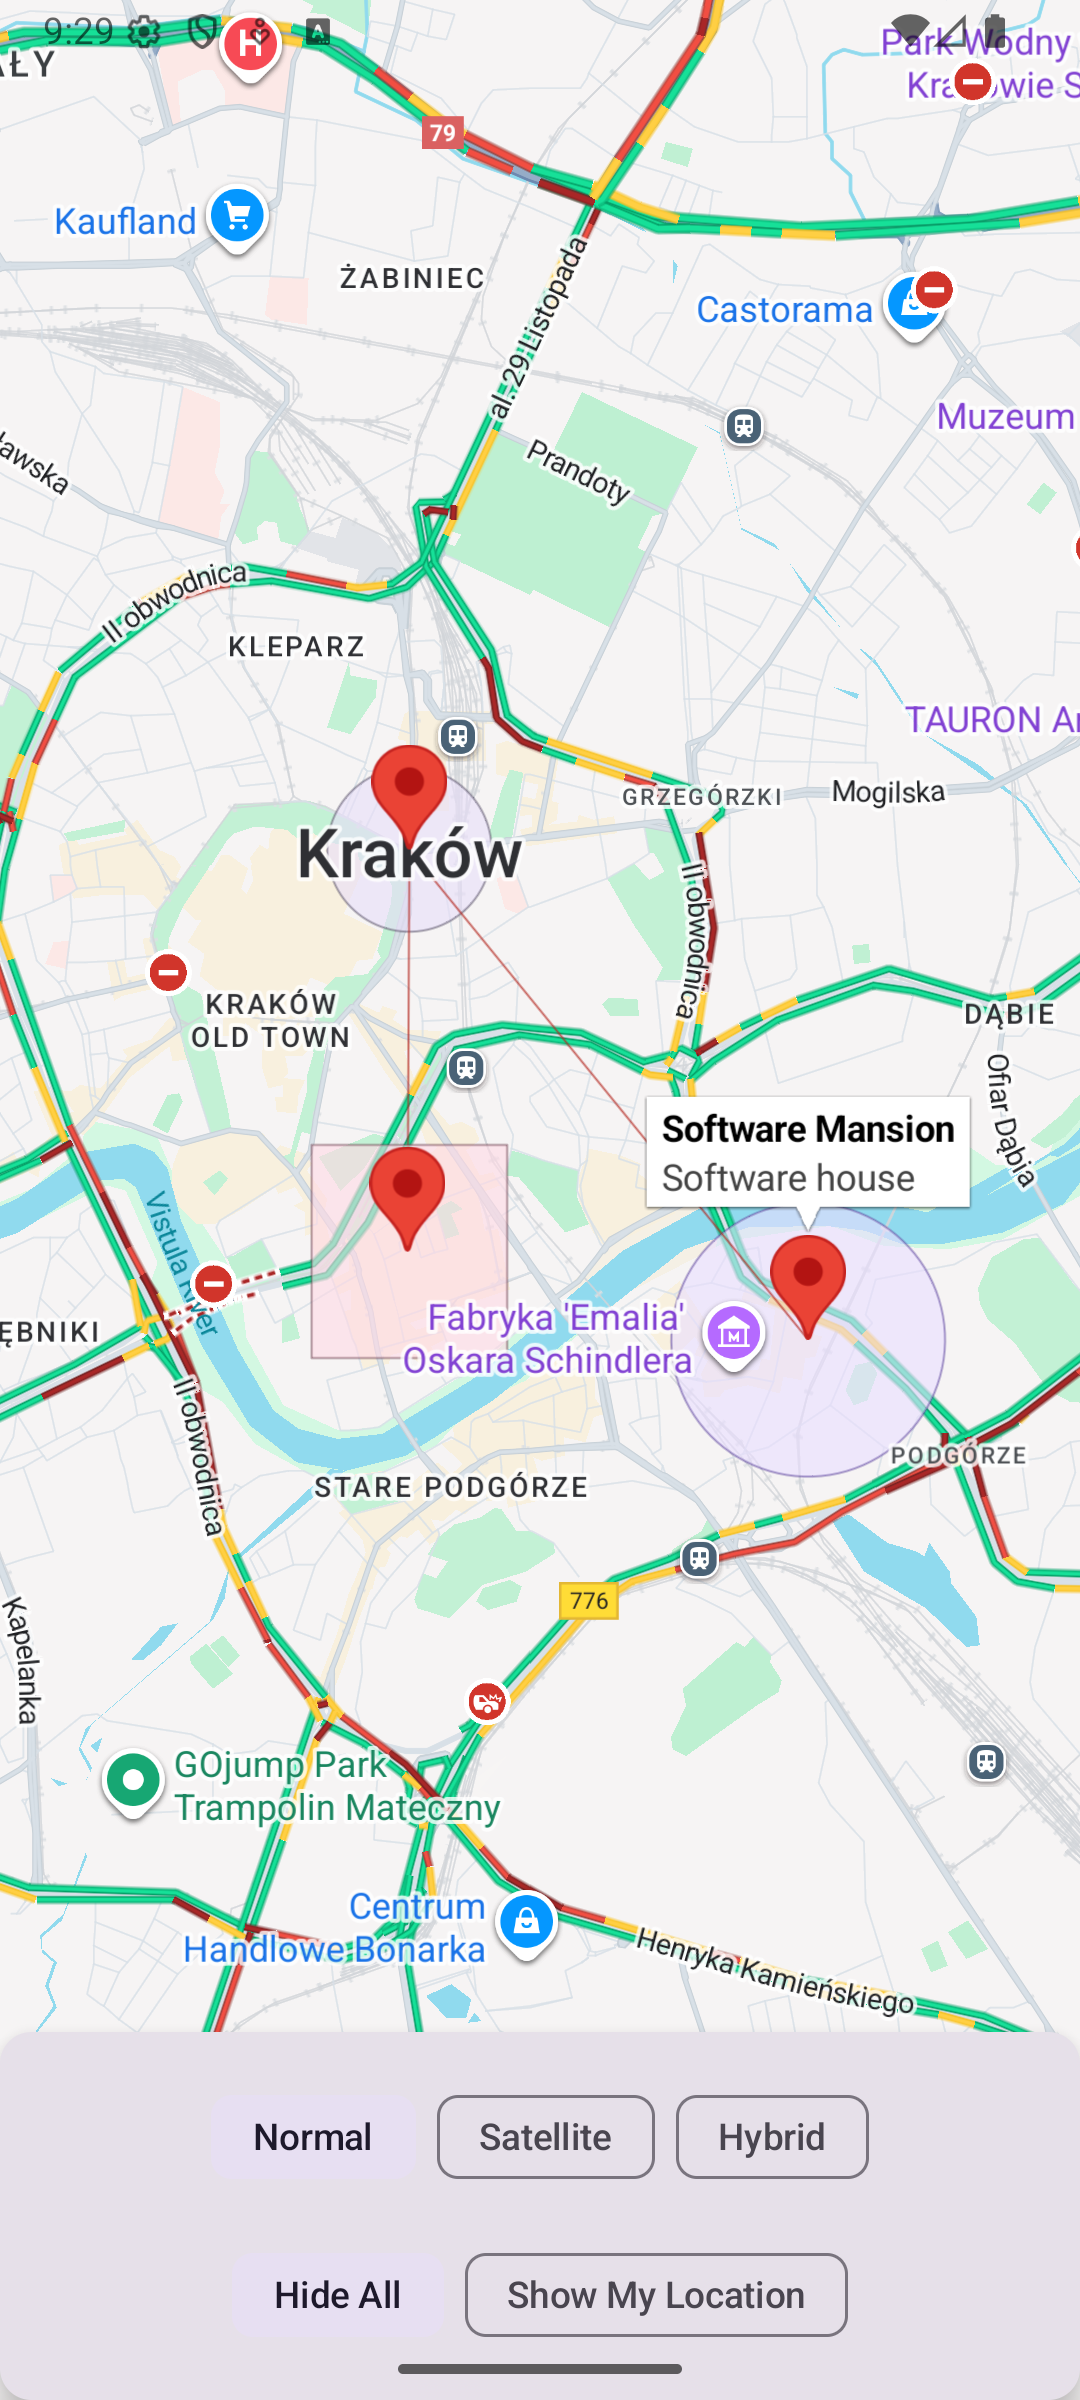
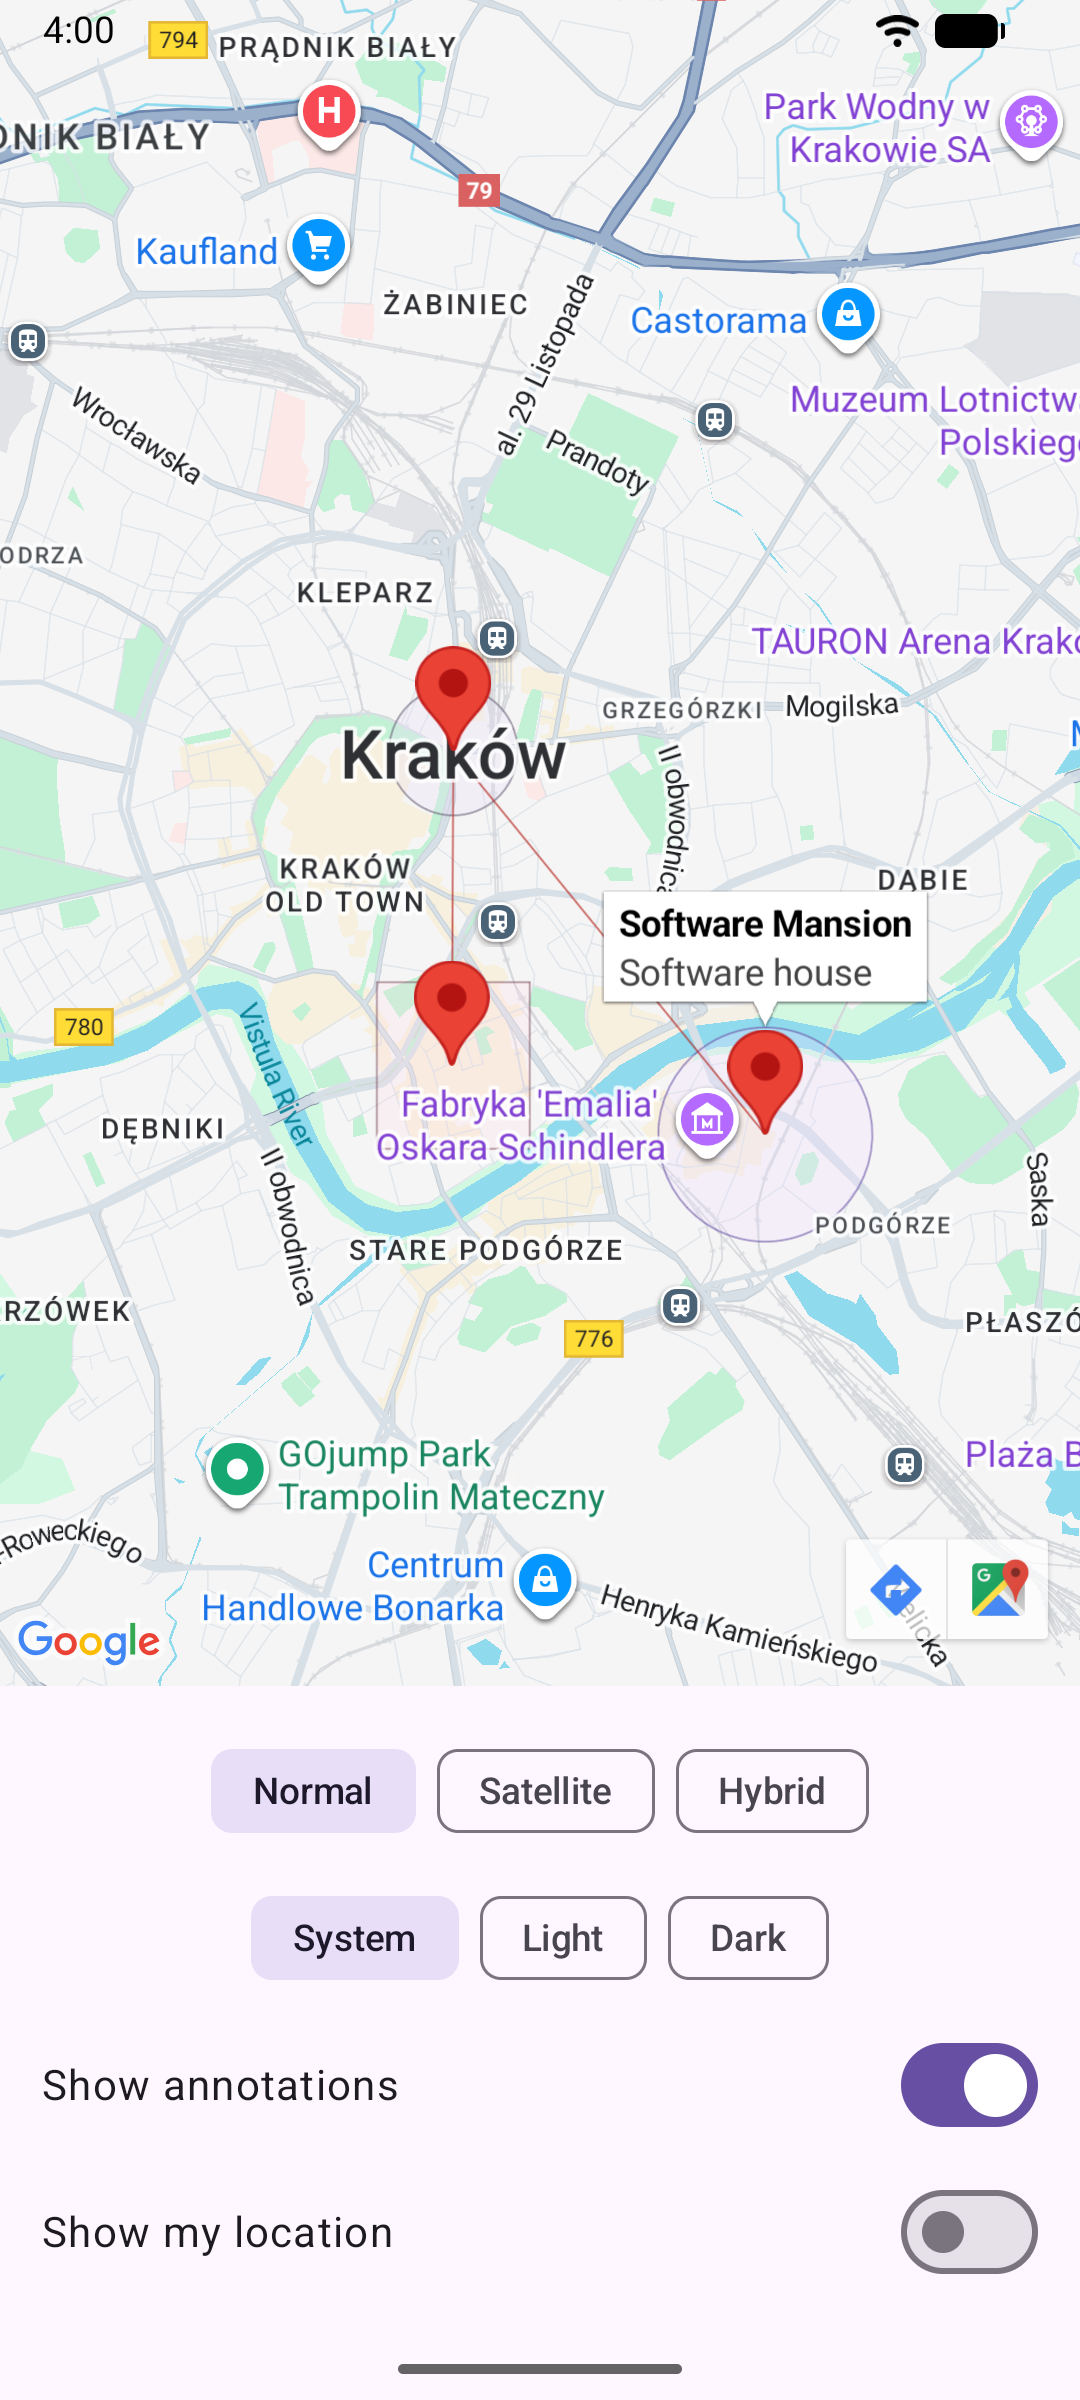
Refine sample app

diff --git a/sample/src/commonMain/kotlin/com/swmansion/kmpmaps/sample/MapsScreen.kt b/sample/src/commonMain/kotlin/com/swmansion/kmpmaps/sample/MapsScreen.kt
@@ -1,15 +1,22 @@
 package com.swmansion.kmpmaps.sample
 
+import androidx.compose.foundation.clickable
 import androidx.compose.foundation.layout.Arrangement
-import androidx.compose.foundation.layout.Box
 import androidx.compose.foundation.layout.Column
 import androidx.compose.foundation.layout.Row
-import androidx.compose.foundation.layout.fillMaxSize
+import androidx.compose.foundation.layout.WindowInsets
+import androidx.compose.foundation.layout.exclude
+import androidx.compose.foundation.layout.fillMaxHeight
 import androidx.compose.foundation.layout.fillMaxWidth
+import androidx.compose.foundation.layout.height
 import androidx.compose.foundation.layout.padding
-import androidx.compose.material3.Card
-import androidx.compose.material3.CardDefaults
+import androidx.compose.foundation.layout.safeDrawing
+import androidx.compose.foundation.layout.statusBars
+import androidx.compose.foundation.layout.windowInsetsPadding
 import androidx.compose.material3.FilterChip
+import androidx.compose.material3.ListItem
+import androidx.compose.material3.Surface
+import androidx.compose.material3.Switch
 import androidx.compose.material3.Text
 import androidx.compose.runtime.Composable
 import androidx.compose.runtime.getValue
@@ -42,9 +49,9 @@ fun MapsScreen() {
     }
     var showAllComponents by remember { mutableStateOf(true) }
 
-    Box(modifier = Modifier.fillMaxSize()) {
+    Column(Modifier.fillMaxHeight(), Arrangement.Bottom) {
         Map(
-            modifier = Modifier.fillMaxSize(),
+            modifier = Modifier.weight(1f),
             cameraPosition = currentCameraPosition,
             properties =
                 MapProperties(
@@ -62,6 +69,7 @@ fun MapsScreen() {
                     compassEnabled = true,
                     myLocationButtonEnabled = showUserLocation,
                     scaleBarEnabled = true,
+                    androidZoomControlsEnabled = false,
                 ),
             markers = if (showAllComponents) exampleMarkers else emptyList(),
             circles = if (showAllComponents) getExampleCircles() else emptyList(),
@@ -80,20 +88,15 @@ fun MapsScreen() {
             onMarkerClick = { marker -> println("Marker clicked: ${marker.title}") },
             onMapClick = { coordinates -> println("Map clicked at: $coordinates") },
         )
-
-        Card(
-            modifier = Modifier.fillMaxWidth().align(Alignment.BottomCenter),
-            elevation = CardDefaults.cardElevation(defaultElevation = 8.dp),
-        ) {
+        Surface {
             Column(
-                modifier = Modifier.fillMaxWidth().padding(16.dp),
-                horizontalAlignment = Alignment.CenterHorizontally,
-                verticalArrangement = Arrangement.spacedBy(12.dp),
+                Modifier.fillMaxWidth()
+                    .windowInsetsPadding(WindowInsets.safeDrawing.exclude(WindowInsets.statusBars))
+                    .padding(vertical = 16.dp),
+                Arrangement.spacedBy(8.dp),
+                Alignment.CenterHorizontally,
             ) {
-                Row(
-                    horizontalArrangement = Arrangement.spacedBy(8.dp),
-                    verticalAlignment = Alignment.CenterVertically,
-                ) {
+                Row(horizontalArrangement = Arrangement.spacedBy(8.dp)) {
                     FilterChip(
                         onClick = { selectedMapType = MapType.NORMAL },
                         label = { Text("Normal") },
@@ -110,10 +113,7 @@ fun MapsScreen() {
                         selected = selectedMapType == MapType.HYBRID,
                     )
                 }
-                Row(
-                    horizontalArrangement = Arrangement.spacedBy(8.dp),
-                    verticalAlignment = Alignment.CenterVertically,
-                ) {
+                Row(horizontalArrangement = Arrangement.spacedBy(8.dp)) {
                     FilterChip(
                         onClick = { selectedMapTheme = MapTheme.SYSTEM },
                         label = { Text("System") },
@@ -130,21 +130,28 @@ fun MapsScreen() {
                         selected = selectedMapTheme == MapTheme.DARK,
                     )
                 }
-                Row(
-                    horizontalArrangement = Arrangement.spacedBy(8.dp),
-                    verticalAlignment = Alignment.CenterVertically,
-                ) {
-                    FilterChip(
-                        onClick = { showAllComponents = !showAllComponents },
-                        label = { Text(if (showAllComponents) "Hide All" else "Show All") },
-                        selected = showAllComponents,
-                    )
-                    FilterChip(
-                        onClick = { showUserLocation = !showUserLocation },
-                        label = { Text("Show My Location") },
-                        selected = showUserLocation,
-                    )
-                }
+                ListItem(
+                    headlineContent = { Text("Show annotations") },
+                    modifier =
+                        Modifier.height(48.dp).clickable { showAllComponents = !showAllComponents },
+                    trailingContent = {
+                        Switch(
+                            checked = showAllComponents,
+                            onCheckedChange = { showAllComponents = it },
+                        )
+                    },
+                )
+                ListItem(
+                    headlineContent = { Text("Show my location") },
+                    modifier =
+                        Modifier.height(48.dp).clickable { showUserLocation = !showUserLocation },
+                    trailingContent = {
+                        Switch(
+                            checked = showUserLocation,
+                            onCheckedChange = { showUserLocation = it },
+                        )
+                    },
+                )
             }
         }
     }

diff --git a/sample/src/commonMain/kotlin/com/swmansion/kmpmaps/sample/App.kt b/sample/src/commonMain/kotlin/com/swmansion/kmpmaps/sample/App.kt
@@ -1,25 +1,16 @@
 package com.swmansion.kmpmaps.sample
 
+import androidx.compose.foundation.isSystemInDarkTheme
 import androidx.compose.material3.MaterialTheme
+import androidx.compose.material3.darkColorScheme
 import androidx.compose.material3.lightColorScheme
 import androidx.compose.runtime.Composable
-import androidx.compose.ui.graphics.Color
 import org.jetbrains.compose.ui.tooling.preview.Preview
 
 @Composable
 @Preview
 fun App() {
-    MaterialTheme(
-        colorScheme =
-            lightColorScheme(
-                primary = Color(0xFF6750A4),
-                secondary = Color(0xFF625B71),
-                tertiary = Color(0xFF7D5260),
-                primaryContainer = Color(0xFFEADDFF),
-                secondaryContainer = Color(0xFFE8DEF8),
-                tertiaryContainer = Color(0xFFFFD8E4),
-            )
-    ) {
+    MaterialTheme(if (isSystemInDarkTheme()) darkColorScheme() else lightColorScheme()) {
         MapsScreen()
     }
 }
